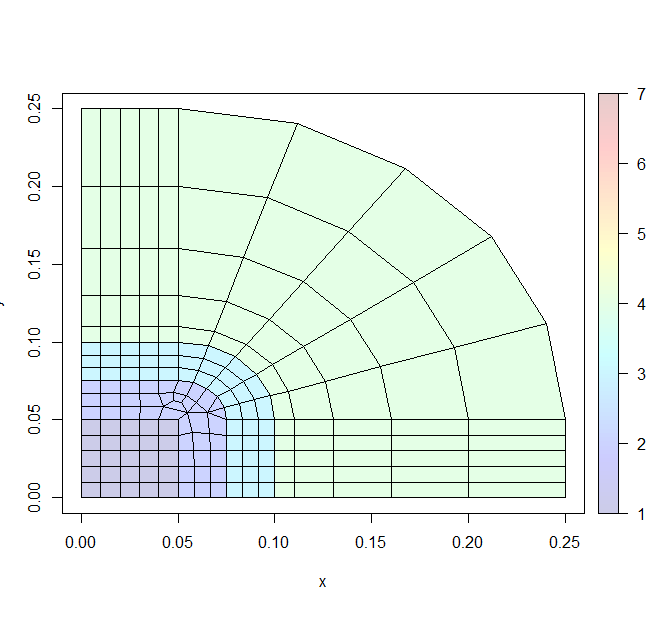
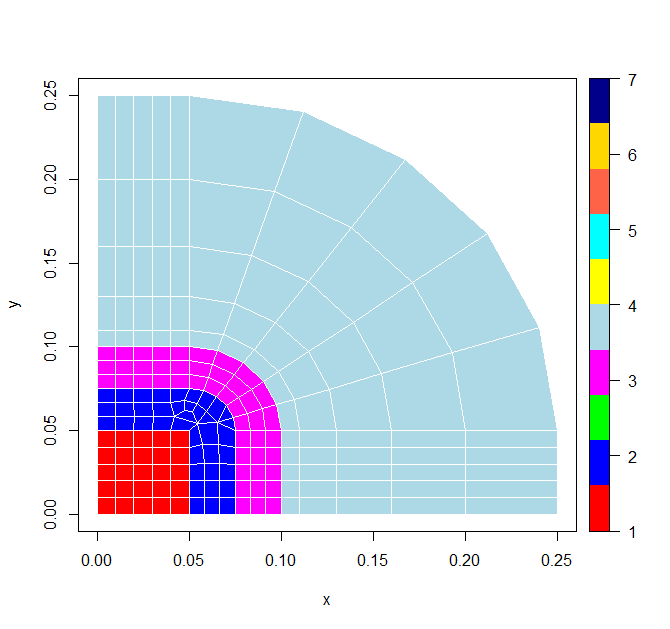
update documentation after implementation of # 8

diff --git a/README.md b/README.md
@@ -41,15 +41,80 @@ To run the tests, you can load the project in RStudio and select *Build*/*Test P
 
 ## Example of usage
 
-The package includes a data file *data/pre_geom2D.atl*. This data file is used in the test package as well. To test the package functionality with this data file and inspect the resulted plot, here is a code snapshot to be used
+The package includes a data file *data/pre_geom2D.atl*. This data file is used in the test package as well. To test the package functionality with this data file and inspect the resulted plot, here is a code snapshot to be used.
+
+
+### Read a mesh file
 
 ````
 #read the data file and populate a mesh object 'dat'
 dat <- mesh2D::readMeshFileATLAS("data/pre_geom2D.atl")
+````
+
+### Dislay a mesh 
+
+#### Plot the mesh data (default usage).
+
+````
 #plot the mesh in a 2D polygon plot
 plotMesh(dat)
 
 ````
+
+The following image will be diplayed.
+
+![Plot a mesh data](man/figures/plot_mesh_example.png "Plot a mesh data")
+
+
+#### Plot the mesh data, with options.
+
+````
+#plot the mesh in a 2D polygon plot
+plotMesh(dat, domains, showEdges=TRUE, showElem=TRUE)
+````
+
+
+The following parameters are given:  
+
+* dat - mesh data;  
+* domains - list of material domains to be plot; if not specified, all the domains will be shown;  
+* showEdges - default is `TRUE` i.e. the edges of the elements will be shown;  
+* showElem - default is `TRUE` i.e. the solid  elements will be shown; a combination of showEdges = `FALSE` and showElem = `FALSE` will
+display only a wireframe for the elements in the shown material domains;  
+
+Few examples:  
+
+```` 
+# display only material domains 1 and 3 (coil and iron core)
+plotMesh(dat, c(1,3))
+````
+
+The result will be the following mesh displayed.
+
+![Plot material domains 1 and 3](man/figures/plot_mesh_1_and_3.png "Plot material domains 1 and 3")  
+
+
+```` 
+# display material domains 2 and 4 (air only) without edges
+plotMesh(dat, c(2,4), showEdges=FALSE)
+````
+
+The result will be the following mesh displayed.
+
+![Plot material domains 2 and 4, no edges](man/figures/plot_mesh_2_and_4_no_edges.png "Plot material domains 2 and 4, no edges")  
+
+
+
+```` 
+# display only wireframes
+plotMesh(dat, showEdges=FALSE, showElem=FALSE)
+````
+
+The result will be the following mesh displayed.
+
+![Plot wireframes](man/figures/plot_wireframes.png "Plot wireframes")  
+
+
 
 ## Authors
 
